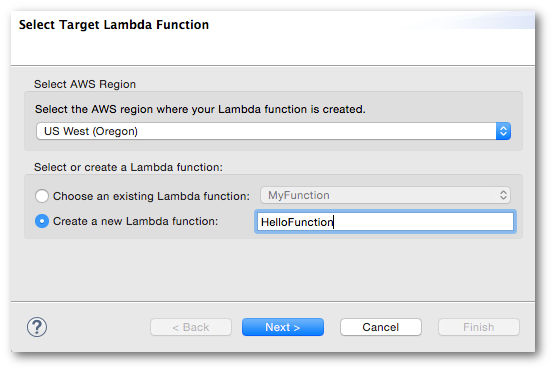
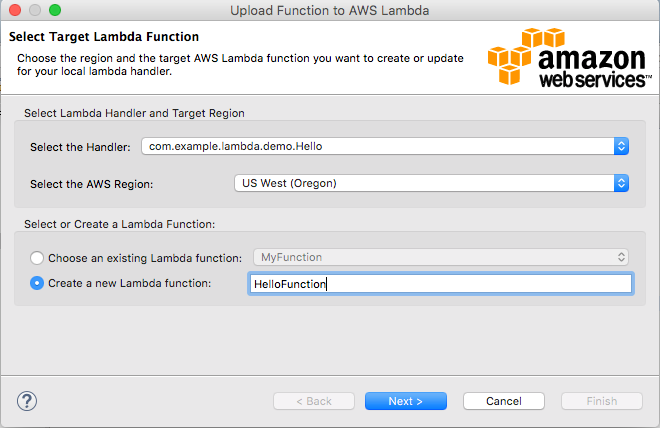
updating lambda tutorial and screenshots for toolkit update

diff --git a/doc_source/lambda-tutorial.rst b/doc_source/lambda-tutorial.rst
@@ -34,26 +34,23 @@ wizard to help you create a new handler class.
     #.  On the Eclipse toolbar, open the drop-down Amazon Web Services menu (identified by the AWS
         icon) and select :guilabel:`New AWS Lambda Java project...`
 
-    #.  Add your Java *project name*, *package name*, and *class name* in the associated input
-        boxes. You can choose any valid names that you want. This tutorial will use the following
-        sample values:
+    #.  Add a *Group ID*, *Artifact ID*, and *class name* in the associated input
+        boxes. The Group ID and Artifact ID refer to the IDs that identify a maven build artifact.
+        To learn more about maven artifacts see `Maven project descriptor reference
+        <https://maven.apache.org/ref/3.5.0/maven-model/maven.html#project>`_ which contains
+        a definition of those fields.
+        This tutorial will use the following sample values:
 
-        * :guilabel:`Project name`: *HelloLambda*
-        * :guilabel:`Package name`: *example*
+        * :guilabel:`Group ID`: *com.example.lambda*
+        * :guilabel:`Artifact ID`: *demo*
         * :guilabel:`Class name`: *Hello*
 
+        The Package Name field is a concatination of the Group ID and the Artifact ID and will be updated accordingly.
         While you type, the code in the :guilabel:`Source preview` will change to reflect the
         changes you make in the dialog.
 
     #.  For :guilabel:`Input Type`, choose *Custom*. For information about each of the available
         input types, see :doc:`lambda-ref-create-project`.
-
-    #.  The second :guilabel:`Input Type` field is name of the actual Java type that will be
-        returned, which must be a Java class (not a primitive type such as :code:`float`,
-        :code:`int` or :code:`boolean`). It defaults to :code:`Object`. Change this value to
-        :code:`String`.
-
-    #.  Change the value of :guilabel:`Output Type` to :code:`String`, as well.
 
     #.  Verify that your entries look like the following screenshot (modify them if they are not), and
         then click :guilabel:`Finish`.
@@ -109,7 +106,9 @@ Allow |LAM| to assume an |IAM| role
 ===================================
 
 In order for |LAM| to access your |LAM| function, you will need to create an |IAM| role that gives
-it access to your AWS resources. The easiest way to do this is with the |console|.
+it access to your AWS resources. You can create the role two ways, in the |console| or in the |tke|.
+This section describes how to create the |IAM| role in the console. See
+:ref:`lambda-tutorial-upload-code` section to create one through the |tke|.
 
 .. topic:: To create an IAM role for Lambda
 
@@ -143,7 +142,10 @@ Create an |S3| bucket for your |LAM| code
 
 |LAMlong| requires an |S3| bucket to store your Java project when you upload it. You can either use
 a bucket that already exists in the AWS region in which you'll run your code, or you can create a
-new one specifically for use by |LAM| (recommended).
+new one specifically for use by |LAM| (recommended). You can create an |S3| bucket two ways,
+in the |console| or in the |tke|.
+This section describes how to create an |S3| bucket in the console. See
+:ref:`lambda-tutorial-upload-code` section to create one through the |tke|.
 
 .. topic:: To create an Amazon S3 bucket for use with Lambda
 
@@ -181,17 +183,28 @@ Next, we'll upload your code to |LAMlong| in preparation for invoking it using t
 
     #.  Click :guilabel:`Next` to proceed to :guilabel:`Function Configuration`.
 
-    #.  Enter a description for your target |LAM| function. You can leave the rest of the options as
-        they are; the |tke| chooses default values for you.
+    #.  Enter a description for your target |LAM| function and select the |IAM| role and |S3| bucket
+        that your function will use.
 
         .. image:: images/lambda_tutorial_upload_function_configure.png
 
         For more information about the available options, see :doc:`lambda-ref-upload-function`.
 
-    #.  Click :guilabel:`Finish` to upload your |LAM| function to AWS.
+    #.  Click the :guilabel:`create` button in the :guilabel:`Function Role` section if you want to create
+        a new |IAM| role for your |LAM| function.
+
+        .. image:: images/lambda_tutorial_upload_create_iam_role.png
+
+    #.  Click the :guilabel:`create` button in the :guilabel:`S3 Bucket for Function Code` section if
+        you want to create a new bucket for your |LAM| function. 
+
+        .. image:: images/lambda_tutorial_upload_create_s3_bucket.png
+
+    #.  You can leave the rest of the options as they are; the |tke| selects default values for you.
+        Click :guilabel:`Finish` to upload your |LAM| function to AWS.
 
 If the upload succeeds, you will see the |LAM| function name that you chose appear next to your
-Eclipse project name in the :guilabel:`Project Explorer` view:
+Java handler class in the :guilabel:`Project Explorer` view:
 
 .. image:: images/lambda_tutorial_upload_function_success.png
 
@@ -208,8 +221,10 @@ You can now invoke the function on |LAMlong|.
 
 .. topic:: To invoke your Lambda function
 
-    #.  Right-click in your code window and select :guilabel:`AWS Lambda`, then :guilabel:`Run on AWS
+    #.  Right-click in your code window and select :guilabel:`AWS Lambda`, then :guilabel:`Run Function on AWS
         Lambda`.
+
+    #.  Select the handler class you want to invoke.
 
     #.  In the input box, type a valid JSON string, such as "AWS Lambda".
 
@@ -218,6 +233,9 @@ You can now invoke the function on |LAMlong|.
         .. tip:: You can add new JSON input files in your project, and they will show up in this dialog as
             long as the file name ends with ".json". You can use this feature to provide standard input
             files for your |LAM| functions.
+
+    #.  The :guilabel:`Show Live Log` box is checked by default. This will display the logs from the |LAM|
+        function output in the Eclipse console.
 
     #.  Click :guilabel:`Invoke` and it will send your input data to your |LAM| function. If you have
         set up everything correctly, you should see the return value of your function printed out in the
@@ -241,4 +259,3 @@ description of each option, see the :doc:`lambda-ref`.
 For more information about |LAM| itself, and about writing Java code for |LAM|, see
 :lam-dg:`Authoring Lambda Functions in Java <lambda-java-how-to-create-deployment-package>` in the
 |LAM-dg|.
-

diff --git a/doc_source/lambda-ref-upload-function.rst b/doc_source/lambda-ref-upload-function.rst
@@ -40,7 +40,12 @@ The Upload Function dialog contains two screens:
 Select Target Lambda Function user interface
 ============================================
 
-.. image:: images/lambda_target_function_filled.png
+.. image:: images/lambda_tutorial_upload_function_create_new.png
+
+Select the Handler
+    :emphasis:`Required`. Select a handler class that contains your |LAM| function code you want to upload.
+
+    :emphasis:`Default`: The handler with the latest change.
 
 Select AWS Region
     :emphasis:`Required`. Select the region where your |LAM| function will be created.
@@ -48,7 +53,7 @@ Select AWS Region
     :emphasis:`Default`: the default |console| region for your AWS account.
 
 Select or create a Lambda function
-    :emphasis:`Required`. You must choose whether to use an existing |LAM| function from the
+    :emphasis:`Required`. You must select whether to use an existing |LAM| function from the
     drop-down list, or to create a new one by entering its name.
 
     :emphasis:`Default`: :guilabel:`Create a new Java function`
@@ -61,9 +66,9 @@ When you click :guilabel:`Finish`, control proceeds to the :guilabel:`Configure 
 Configure Function user interface
 =================================
 
-.. image:: images/lambda_target_function_config_filled.png
+.. image:: images/lambda_tutorial_upload_function_configure.png
 
-The screen is divided into four sections, each with its own settings.
+The screen is divided into five sections, each with its own settings.
 
 Basic Settings
 --------------
@@ -81,35 +86,51 @@ Description
     :emphasis:`Default`: the description is empty.
 
 
-Function Execution
+Function Role
 ------------------
 
-This section allows you to modify the execution environment for the function.
-
-Handler
-    :emphasis:`Required`. The Java class that contains your |LAM| function code.
-
-    :emphasis:`Default`: the package and class name from your project are automatically selected for
-    you.
+This section allows you to select the |IAM| role to apply to the function. You can
+also create a new |IAM| role with the :guilabel:`create` button. The |IAM| role created
+through the |tke| will be a basic role that provides access to |S3|. If access to more
+|AWS| resources is required, you must provide access to each of the services used in the |console|.
 
 IAM Role
     :emphasis:`Required`. The role that Lambda will use to access your AWS resources during the
-    execution of your function. You must make sure that this role provides access for |LAMlong| to
-    at least |S3|, but if your function uses any other AWS resources, you must also provide access
-    to each of the services used.
+    execution of your function.
 
-    :emphasis:`Default`: the first IAM role from your AWS account.
+    :emphasis:`Default`: the first |IAM| role from your AWS account.
+
+Function Versioning and Alias
+-----------------------------
+
+This section allows you publish a new version of your |LAM| function and to specify an alias for that version.
+To learn more about |LAM| versioning and aliasing, see
+:LAM-dg:`AWS Lambda Function Versioning and Aliases <versioning-aliases>` in the
+|LAM-dg|.
+
+Publish new version
+    :emphasis:`Default`: not selected. If selected, the upload will create a new version of the |LAM|
+    function instead of replacing it.
+
+Provide an alias to this new version
+    :emphasis:`Default`: not selected. If selected, you can type in a new alias or use an existing one.
 
 
 S3 Bucket for Function Code
 ---------------------------
 
-This section allows you to set an S3 bucket used by your |LAM| function.
+This section allows you to set an S3 bucket used by your |LAM| function. You can
+also create a new bucket with the :guilabel:`create` button and select settings to encrypt
+your |LAM| function when it uploads to |S3|.
 
 S3 Bucket
     :emphasis:`Required`. An |S3| bucket that can be used by your function's code. Only buckets that
     are in the same region that you will run the function in will be displayed here.
 
+    :emphasis:`Default`: the first bucket in your list or the last bucket you uploaded your |LAM| function to.
+
+Encryption setting
+    :emphasis:`Default`: None is selected.
 
 Advanced Settings
 -----------------
@@ -127,6 +148,3 @@ Timeout (s)
     have failed if it has finished execution.
 
     :emphasis:`Default`: 15 s.
-
-
-
